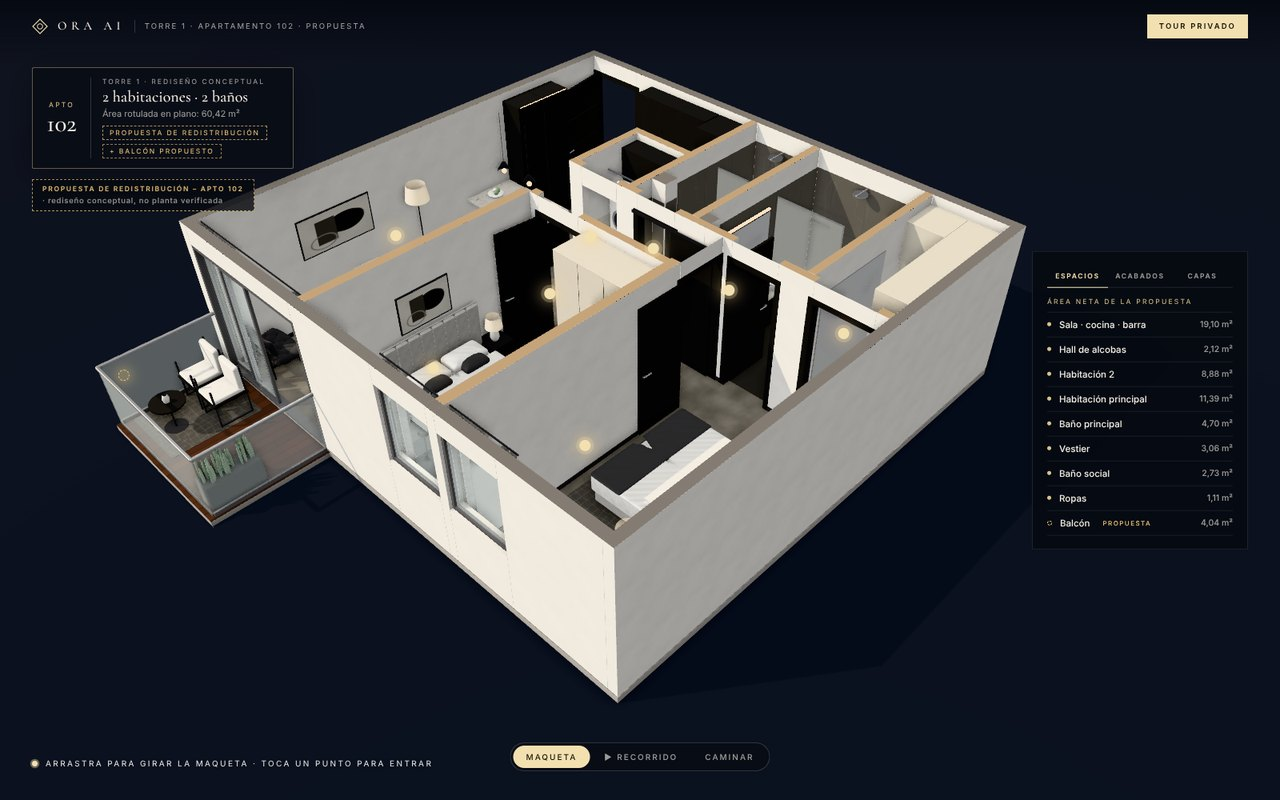
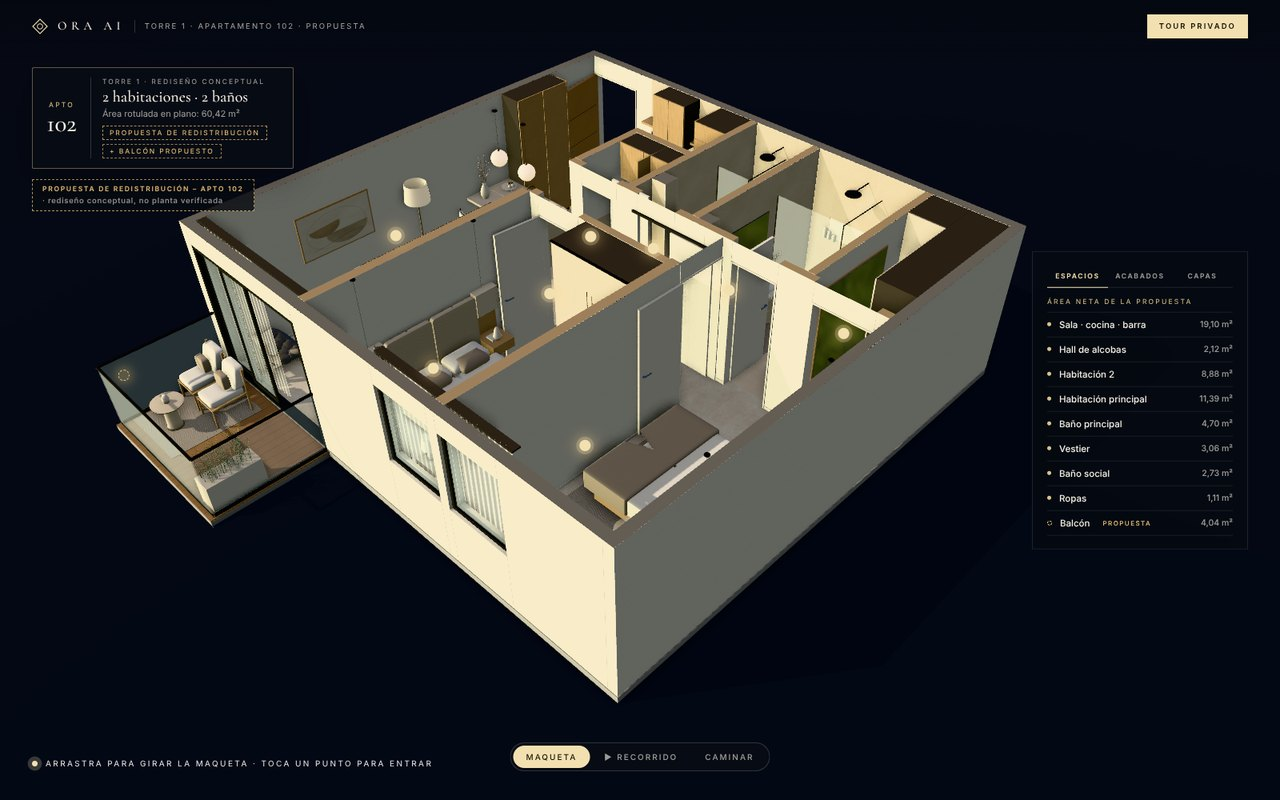
Apto 102: capturas de presentación, comparativas antes/después, informe y pendientes
- Capturas de los 11 entregables y 4 escenas de atardecer con encuadre de
  arquitectura; comparativas desde las mismas cámaras que la versión ed77ce2.
- INFORME-PRESENTACION.md, PENDIENTES.md y CREDITOS.md.
- Pruebas nuevas: materiales PBR, exterior, día/atardecer, calidad y puerta oculta.

Sigue siendo una propuesta conceptual, no una modificación arquitectónica aprobada.

Claude-Session: https://claude.ai/code/session_01A4QqV71Myd4snXr3dApN1o

Changed region(s): [[0.0625, 0.0625, 0.8125, 0.875], [0.375, 0.7188, 0.4062, 0.7812], [0.4062, 0.7812, 0.4375, 0.8125]]

diff --git a/apartamento-102/INFORME-PRESENTACION.md b/apartamento-102/INFORME-PRESENTACION.md
@@ -1,0 +1,75 @@
+# Informe · fase de producción visual del apartamento 102
+
+**Propuesta conceptual, no planta verificada ni modificación arquitectónica aprobada.** Rama
+`feat/apartamento-102-rediseno`, PR #4 en borrador. Versión anterior para comparar: commit `ed77ce2`.
+
+## 1. Distribución (congelada antes de la fase visual)
+
+- **Ingreso:** 0,95 m libres entre la despensa (0,40 m) y el mesón norte; 1,00 m medido, limitado por la
+  puerta de acceso. Comprobado en planta y con rayos en el modelo 3D (prueba automática).
+- **Ropas:** junto al ducto D1, en el antiguo cuarto, con puerta corrediza oculta que se abre al
+  acercarse. La columna a la izquierda del acceso se descartó por desagüe (≈3,2 m), ventilación y ruido;
+  queda documentada en `capturas/06-comparacion-ubicacion-ropas.png`.
+- **Depósito:** no cabe junto con ropas en el mismo cuarto; el almacenamiento está en la despensa.
+- **Sin cambios:** dos habitaciones, dos baños, sala con eje libre de 0,85 m al balcón, cocina en U con
+  barra-península de dos puestos y balcón. No se agregaron espacios ni se movieron muros para acomodar
+  muebles. La habitación 2 sigue siendo dormitorio: el escritorio se cambió por una cómoda baja dentro de
+  la misma huella.
+
+## 2. Mejoras visuales
+
+| Área | Antes | Ahora |
+| --- | --- | --- |
+| Materiales | Texturas procedurales de baja resolución hechas en el navegador | Texturas PBR propias de 1024 px con mapas de color, relieve y rugosidad: travertino en vetas, roble rift, piedra caliza 60 × 120, laca mate, yeso, lino, bouclé, tapete y deck |
+| Cocina | Cajas con textura | Roble claro con frentes y juntas reales, mesón de travertino de 4 cm, península con cascada y panel acanalado iluminado, horno, nevera y lavavajillas integrados, grifo de cuello de cisne en latón, repisas con luz, campana integrada, colgantes opalinos y banquetas de bouclé con estructura de varilla |
+| Sala | Sofá de terceros, mesa rectangular, TV sobre el muro | Sofá curvo en bouclé crema, mesas redondas de travertino, muro de listones de roble con TV y barra de sonido, cortinas de lino y visillo desde riel empotrado, foseado de luz indirecta, cuadro abstracto propio |
+| Baños | Revestimiento hasta 2,10 m, aparatos simples | Travertino a toda altura con juntas, duchas a nivel con rejilla lineal, mampara con perfil y barra negros, brazo de techo, termostática y teleducha, nichos iluminados, muebles suspendidos en laca arena con encimera y poceta, espejos con luz perimetral, sanitarios suspendidos con pulsador negro |
+| Ropas | Equipos y gabinete | Carpintería de roble con lavadora-secadora apilada sobre bandeja, lavadero, repisas con cestas y toallas, gabinete alto, rejilla de extracción y registro de mantenimiento hacia el ducto |
+| Habitaciones | Cama de bloques | Plataforma flotante de roble, colchón, duvet y pie de cama con caída, almohadas, cabecero de dos paneles tapizados, mesas de noche suspendidas con panel superior y luz, colgantes de lectura, armarios hasta el cielo |
+| Corredor | Marcos con molduras | Marcos enrasados, zócalo bajo del color del muro, buñas en el encuentro con el cielo, luz lineal rasante, piso continuo |
+| Exterior | Pinos de conos, setos de caja, colinas planas | HDRI fotográfico proyectado sobre el terreno (cielo, horizonte y luz), árboles y arbustos 3D con corteza y hojas, receptor de sombras, baranda de vidrio con perfiles finos, tumbonas de teca y jardinera de gramíneas |
+| Luz | Tono ACES, ambiente genérico | Mapeo de tonos Khronos PBR Neutral, rebote cálido del piso, telas con sheen, piedras con brillo muy bajo, oclusión de contacto (calidad alta) sin oscurecer el exterior, escenas de **día y atardecer** |
+
+Comparativas desde las mismas cámaras, con el mismo campo de visión y exposición, en
+`capturas/comparativas/`. La diferencia viene de geometría, materiales, iluminación y exterior; no se
+cambió contraste ni saturación para "mejorar" las imágenes.
+
+## 3. Experiencia y rendimiento
+
+- Se conservan maqueta, vista cenital, caminata con colisiones, recorrido de 12 capítulos, puntos de
+  información, acabados en vivo y capas.
+- **Nuevo en Opciones → Capas:** luz **Día / Atardecer** y calidad gráfica **Baja / Media / Alta**. La
+  calidad alta baja sola a media si el equipo no sostiene ~28 fps.
+- **Carga progresiva:** primero se muestra el apartamento; el cielo HDRI y los árboles se cargan después.
+- **Cifras** (sala hacia el balcón, 1280 × 800, medidas con renderizado por software, sin GPU):
+
+| Calidad | Llamadas de dibujo | Triángulos | Texturas en GPU | Árboles / arbustos |
+| --- | --- | --- | --- | --- |
+| Baja | 94 | ≈183 000 | 48 | 5 / 5 |
+| Media | 98 | ≈217 000 | 48 | 9 / 8 |
+| Alta | 105 | ≈255 000 | 56 | 13 / 12 |
+
+- **Peso:** `dist/datos.js` ≈15,6 MB (modelo, muebles, texturas y exterior embebidos para que funcione
+  sin servidor, también desde el ZIP).
+
+## 4. Licencias
+
+Todo lo de terceros admite uso comercial; el detalle está en [CREDITOS.md](CREDITOS.md): sofá
+GlamVelvetSofa (CC BY 4.0) y butaca SheenChair (CC0) de Wayfair vía Khronos; HDRI de Poly Haven (CC0);
+ez-tree (MIT) con corteza de ambientCG (CC0). Las texturas de materiales, el cuadro y todo el modelado
+son propios.
+
+## 5. Pruebas automatizadas
+
+`npm test` incluye 14 pruebas del 102. Además de programa, envolvente del DWG, colisiones, recorrido y
+apertura sin servidor, ahora comprueban:
+- el ingreso de 0,90 m o más en planta y medido con rayos en el modelo 3D;
+- el paso barra–tabique y el eje mesa–televisor;
+- los materiales PBR con mapas de color, relieve y rugosidad, y las telas con material físico;
+- la carga del HDRI y de los árboles;
+- el cambio día/atardecer y de calidad;
+- la puerta oculta de ropas, que se abre al acercarse y se cierra al alejarse.
+
+## 6. Pendientes
+
+Registro separado en [PENDIENTES.md](PENDIENTES.md).

diff --git a/apartamento-102/PENDIENTES.md b/apartamento-102/PENDIENTES.md
@@ -1,0 +1,63 @@
+# Registro de pendientes · apartamento 102 (propuesta conceptual)
+
+Puntos arquitectónicos y técnicos que **siguen sin validar**. Nada de lo que muestra el visor debe
+presentarse como aprobado mientras estos puntos estén abiertos. No se ha comprobado el cumplimiento de
+ninguna norma (NSR-10, RAS, RETIE, accesibilidad, licencia urbanística).
+
+## Decisiones de distribución (congeladas en esta fase)
+
+| Tema | Decisión vigente | Estado |
+| --- | --- | --- |
+| Paso al ingresar | Despensa de 0,40 m y mesón norte desde 1,50 m: 0,95 m frente a frente, 1,00 m medido (límite: puerta de 1,00 m). Comprobado en planta y con rayos en el modelo 3D | Resuelto en la propuesta |
+| Zona de ropas | En el antiguo cuarto junto al ducto D1, con puerta corrediza oculta desde el hall. La columna a la izquierda del acceso se estudió y se descartó: desagüe de ≈3,2 m sin ducto cercano y sin ventilación (comparación en `capturas/06-comparacion-ubicacion-ropas.png`) | Elegida por viabilidad; conexiones por confirmar |
+| Depósito | No es compatible con ropas en el mismo cuarto. El almacenamiento queda en la despensa del ingreso | Pendiente de decisión del cliente si quiere recuperar un depósito |
+| Lavaplatos en la península | Se mantiene: no afecta la circulación (paso de 0,90 m entre barra y tabique) | Desagüe por confirmar (ver redes) |
+
+## Estructura
+
+1. **Sistema estructural de la torre.** Si los muros interiores son estructurales (por ejemplo, muros de
+   concreto de sistema industrializado), la redistribución no es viable. Es la validación principal.
+2. **Nichos de las duchas.** Se dibujan empotrados 9 cm en el muro del corredor (envolvente del DWG). Si
+   ese muro es estructural o no tiene espesor suficiente, se reemplazan por repisas.
+3. **Balcón propuesto.** Voladizo de 1,65 m: estructura, impermeabilización, desnivel y baranda.
+
+## Redes hidrosanitarias, gas y ventilación
+
+4. **Lavaplatos de la península:** ≈2,6 m horizontales hasta el ducto D1; confirmar recorrido, pendiente y
+   si existe una bajante de cocina más cercana en el diseño hidráulico.
+5. **Ropas:** desagüe y extracción al ducto D1 (≈0,4 m), punto de agua desde el baño social, circuito
+   eléctrico dedicado, impermeabilización del piso y registro de mantenimiento hacia el ducto.
+6. **Baños:** nuevas posiciones de sanitarios y duchas a nivel (rejilla lineal: requiere rebaje o
+   pendiente en el afinado) y ventilación por los ductos existentes.
+7. **Campana de la cocina:** salida al exterior o recirculación con filtro de carbón; no hay vano
+   identificado para la salida.
+8. **Coincidencia piso a piso** de bajantes y puntos de agua en las unidades tipo 102 de los pisos
+   superiores, y relación con los medianeros del 101 y el 103.
+
+## Arquitectura e instalaciones interiores
+
+9. **Altura libre.** Todo el modelo supone 2,40 m. El foseado de luz de la sala descuelga 10 cm el
+   perímetro (2,30 m en esa franja).
+10. **Puerta oculta de ropas.** Hoja corrediza de bolsillo dentro de un muro de 12 cm: verificar que el
+    bastidor quepa.
+11. **Puertas interiores de 2,10 m y marcos enrasados:** supuestos de visualización.
+12. **Iluminación indirecta** (foseado, bajo repisas, espejos, mesas de noche): circuitos y fuentes por
+    diseñar.
+
+## Áreas, licencia y comercial
+
+13. **Área rotulada de 60,42 m²:** el DWG no dice cómo se midió; las áreas netas del visor se calculan
+    sobre la propuesta.
+14. **Licencia de construcción:** la redistribución y el balcón requieren revisar la licencia y su
+    modificación.
+15. **Aprobación del arquitecto del proyecto.**
+
+## Visualización
+
+16. **Exterior conceptual:** cielo HDRI, terreno y árboles no representan la vista real del proyecto; el
+    visor lo rotula así.
+17. **Acabados, muebles y marcas:** ilustrativos y no contractuales. El sofá reproduce un producto real de
+    terceros (ver `CREDITOS.md`).
+18. **Texturas de hojas de los árboles:** se usan bajo la licencia MIT del repositorio ez-tree; el autor no
+    documenta su origen. Si se requiere certeza absoluta para uso comercial, se pueden reemplazar por
+    texturas CC0.

diff --git a/apartamento-102/PROPUESTA.md b/apartamento-102/PROPUESTA.md
@@ -33,7 +33,7 @@ La estética por defecto del visor es «Monocromática elegante»: blanco, grise
 | Habitación principal | 11,39 m² | Cama de 1,60 m, mesas de noche, butaca junto a la ventana |
 | Baño principal (privado) | 4,70 m² | Ducha de 1,78 m con mampara, doble lavamanos y sanitario suspendido. Se entra desde la habitación |
 | Vestier | 3,06 m² | Clósets en L y espejo de cuerpo entero. Se entra desde la habitación |
-| Habitación 2 | 8,88 m² | Cama doble, armario de 1,40 m y escritorio bajo la ventana |
+| Habitación 2 | 8,88 m² | Cama doble, mesas de noche suspendidas, armario corredizo de 1,40 m y cómoda baja bajo la ventana (dormitorio completo, no estudio) |
 | Baño social | 2,73 m² | Ducha, sanitario suspendido y lavamanos. Sirve a la habitación 2 y a la zona social |
 | Ropas | 1,11 m² | Lavadora-secadora apilada, lavadero y almacenamiento, junto a los ductos. Puerta corrediza oculta en el muro, al ras y con su acabado, desde el hall |
 | Hall de alcobas | 2,12 m² | Reparte las dos habitaciones, el baño social y la zona de ropas |
@@ -83,7 +83,7 @@ ducto D1, circuito eléctrico dedicado e impermeabilización del piso del cuarto
 
 1. **Dos habitaciones de verdad en lugar de «2 + estudio».**
    - La alcoba pequeña del plano original (2,50 × 2,52 m, 6,30 m²) pasa a ser una habitación de
-     8,88 m² con cama doble, armario y escritorio.
+     8,88 m² con cama doble, armario y cómoda.
    - El estudio sin ventana desaparece. Su área se usa para la suite principal y para los servicios.
 2. **Suite principal.**
    - La habitación principal tiene ahora baño privado (4,70 m²) y vestier (3,06 m²), con acceso solo
@@ -115,6 +115,8 @@ ducto D1, circuito eléctrico dedicado e impermeabilización del piso del cuarto
      por ducto.
 
 ## Lo que hay que validar antes de ofrecerla
+
+El registro completo y actualizado está en [PENDIENTES.md](PENDIENTES.md).
 
 1. **Sistema estructural.**
    - Si los muros interiores de la torre son estructurales (por ejemplo, muros de concreto de sistema
@@ -150,12 +152,17 @@ ducto D1, circuito eléctrico dedicado e impermeabilización del piso del cuarto
 - **Estética por defecto «Monocromática elegante»:** microcemento gris perla, muros blancos, cocina en
   negro mate con mármol gris, baños en piedra gris y negro mate. Las otras tres propuestas de acabados
   siguen disponibles.
-- **Renderización:**
-  - sofá y butacas detallados (modelos de terceros con licencia abierta, ver `modelo/muebles/CREDITOS.md`);
-  - camas con duvet, almohadas y cabecero tapizado de canales; banquetas tapizadas;
-  - telas con brillo de terciopelo y piedras pulidas con capa transparente (materiales físicos);
-  - mapeo de tonos neutro (Khronos PBR Neutral) para colores de material fieles;
-  - exterior conceptual con setos orgánicos y bruma clara, como una vista fotográfica desde el interior.
+- **Presentación visual (ver `INFORME-PRESENTACION.md`):**
+  - estética «Monocromática cálida» por defecto: blanco cálido, greige, travertino claro, roble claro y negro
+    mate como acento;
+  - cocina de roble y travertino con península en cascada, banquetas de bouclé, colgantes opalinos, horno,
+    nevera y lavavajillas integrados, grifería de latón cepillado y luz bajo repisas;
+  - baños en travertino a toda altura, duchas a nivel con mampara de perfil negro, nichos iluminados,
+    muebles suspendidos y espejos con luz indirecta;
+  - habitaciones con cama de plataforma en roble, cabecero tapizado, mesas de noche suspendidas con luz y
+    armarios hasta el cielo;
+  - exterior conceptual con HDRI fotográfico y árboles 3D; escenas de día y atardecer;
+  - materiales PBR propios con color, relieve y rugosidad (créditos en `CREDITOS.md`).
 - **Lo mismo que en el 104:** maqueta, recorrido de 12 capítulos, caminata con colisiones, puntos de
   información, acabados en vivo y entorno exterior conceptual.
 

diff --git a/apartamento-102/README.md b/apartamento-102/README.md
@@ -40,16 +40,24 @@ Tiene dos capas propias:
 | `tools/disenar_102.py` | Define la propuesta, calcula áreas y dibuja `capturas/00-original-vs-propuesta.png` y `capturas/01-planta-propuesta.png` |
 | `data/propuesta-102.json` | Muros (con su origen: `dwg` o `propuesta`), vanos, puertas, aparatos, mobiliario, espacios y balcón |
 | `tools/generar_glb.py` | Modelo 3D `modelo/apto-102-propuesta.glb`. `ARQ_Muros` es la envolvente del DWG; `PRO_Muros_interiores` son los tabiques propuestos |
-| `src/app.mjs` | Visor, derivado del del 104. Usa las texturas y los acabados de `../apartamento-104/src/` |
-| `src/entorno102.mjs` | Copia local del entorno exterior del 104, con setos orgánicos, pinos más suaves y bruma clara (el del 104 no cambia) |
+| `src/app.mjs` | Visor, derivado del del 104. Reutiliza las texturas y los acabados de `../apartamento-104/src/` sin modificarlos |
+| `src/pbr102.mjs` | Materiales PBR propios y propuesta «Monocromática cálida» |
+| `src/entorno102.mjs` | Exterior conceptual propio del 102: HDRI proyectado, árboles 3D (ez-tree), receptor de sombras y escenas de día y atardecer (el entorno del 104 no cambia) |
+| `src/vendor/ez-tree/` | Generador de árboles ez-tree (MIT) |
+| `tools/interiores_premium.py`, `tools/mobiliario_premium.py` | Cocina, baños, ropas, mobiliario, cortinas y cielos de presentación |
+| `tools/texturas_pbr.py` | Texturas PBR propias en `modelo/texturas/` |
+| `tools/preparar_exterior.py` | Recursos del exterior en `modelo/exterior/` |
 | `tools/preparar_muebles.py` | Prepara `modelo/muebles/*.glb` a partir de Khronos glTF-Sample-Assets |
-| `modelo/muebles/` | Sofá y butaca detallados de terceros; créditos y licencias en `CREDITOS.md` |
+| `modelo/muebles/` | Sofá y butaca detallados de terceros |
+| `CREDITOS.md`, `INFORME-PRESENTACION.md`, `PENDIENTES.md` | Licencias, informe de la fase visual y registro de pendientes |
 
 ## Regenerar
 
 ```bash
 python3 tools/disenar_102.py data/original-102-dwg.json data/propuesta-102.json capturas/01-planta-propuesta.png capturas/00-original-vs-propuesta.png
 python3 tools/preparar_muebles.py <glTF-Sample-Assets>/Models modelo/muebles   # solo si cambian los muebles
+python3 tools/preparar_exterior.py <pmndrs-assets> <ez-tree> modelo/exterior     # solo si cambia el exterior
+python3 tools/texturas_pbr.py modelo/texturas
 python3 tools/generar_glb.py data/propuesta-102.json modelo/apto-102-propuesta.glb
 node tools/build.mjs        # requiere three 0.180.0 y esbuild, igual que el 104
 ```

diff --git a/apartamento-102/CREDITOS.md b/apartamento-102/CREDITOS.md
@@ -1,0 +1,28 @@
+# Créditos y licencias · apartamento 102
+
+El visor del 102 combina recursos propios y de terceros. Todos los de terceros tienen licencias que
+permiten el uso comercial; las que lo piden exigen solo atribución, que se da aquí y en el visor.
+
+## Recursos de terceros
+
+| Recurso | Dónde se usa | Autor / fuente | Licencia |
+| --- | --- | --- | --- |
+| Sofá «GlamVelvetSofa» | Sala | Wayfair LLC, vía [Khronos glTF-Sample-Assets](https://github.com/KhronosGroup/glTF-Sample-Assets) | [CC BY 4.0](https://creativecommons.org/licenses/by/4.0/) |
+| Butaca «SheenChair» | Sala y habitación principal | Wayfair LLC, vía Khronos glTF-Sample-Assets | [CC0 1.0](https://creativecommons.org/publicdomain/zero/1.0/) |
+| HDRI «park» (cielo, terreno lejano y luz del exterior) | Exterior conceptual | [Poly Haven](https://polyhaven.com), selección de [pmndrs/assets](https://github.com/pmndrs/assets) | CC0 1.0 |
+| Generador de árboles «ez-tree» (código en `src/vendor/ez-tree/`) | Árboles y arbustos 3D | Daniel Greenheck, [github.com/dgreenheck/ez-tree](https://github.com/dgreenheck/ez-tree) | MIT (ver `src/vendor/ez-tree/LICENSE`) |
+| Corteza «Bark013» | Árboles | [ambientCG](https://ambientcg.com), incluida en ez-tree | CC0 1.0 |
+| Texturas de hojas (roble, fresno) | Árboles | Repositorio ez-tree | MIT del repositorio; el autor no documenta otro origen |
+| three.js r180 | Motor del visor | three.js authors | MIT |
+
+Detalle de los muebles en `modelo/muebles/CREDITOS.md`. Las licencias de terceros excluyen logos y
+marcas. El sofá reproduce un producto real de Wayfair (según su ficha en Khronos); se usa como
+mobiliario ilustrativo y no implica relación comercial.
+
+## Recursos propios
+
+- **Texturas PBR** (travertino, roble, piso de piedra caliza, laca, yeso, lino, bouclé, tapete, deck y
+  el cuadro abstracto): generadas con `tools/texturas_pbr.py` a partir de ruido procedural. No
+  provienen de fotografías ni de bibliotecas de terceros.
+- **Arquitectura, carpintería, baños, cocina, camas, banquetas, cortinas y accesorios**: modelados por
+  código en `tools/generar_glb.py`, `tools/interiores_premium.py` y `tools/mobiliario_premium.py`.
